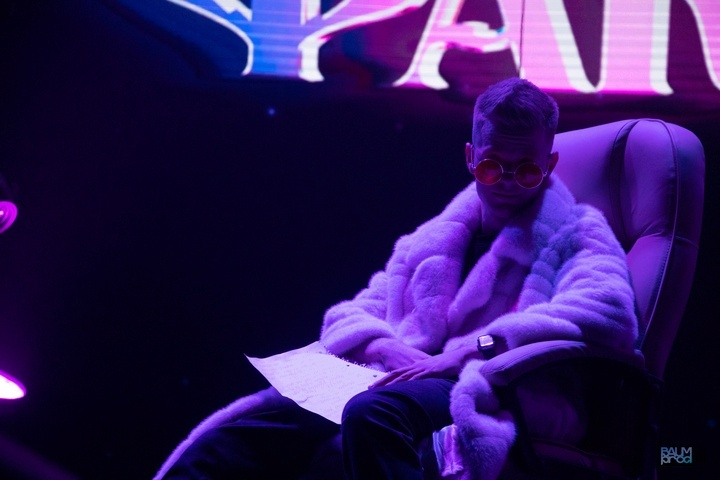
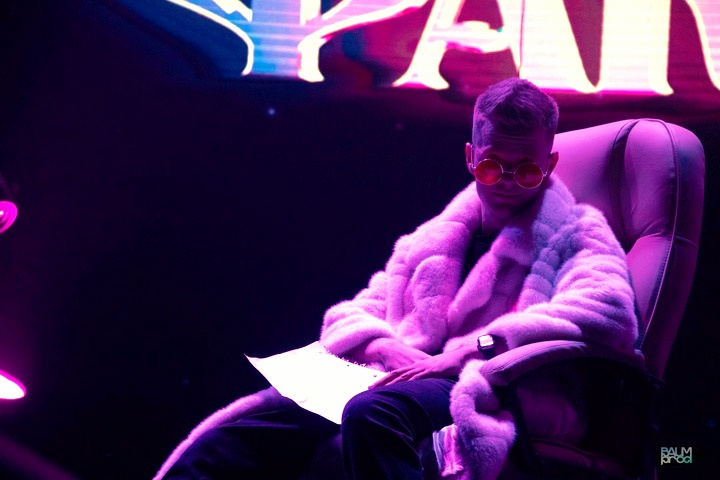
Добавлена возможность применять настройки активного изображения ко всем изображениям

diff --git a/src/main/java/org/example/photoredactor/MainController.java b/src/main/java/org/example/photoredactor/MainController.java
@@ -128,18 +128,34 @@ public class MainController {
             coef = Double.parseDouble(textField.getText());
         }
 
-        changeImage(setting, coef);
+        changeImage(curImageFileName, curImageEditCopy, setting, coef);
     }
 
-    @FXML private void changeImage(Setting setting, double coef) {
-        Mat curImage = imread(curImageFileName);
+    @FXML void changeAllImages() {
+        changeAllImages(exposeSetting, exposeSetting.getCoef());
+    }
+
+    private void changeImage(String image, String imageEditCopy, Setting setting, double coef) {
+        Mat curImage = imread(image);
         Helper.changeImage(curImage, setting, coef);
 
-        imwrite(curImageEditCopy, curImage);
+        imwrite(imageEditCopy, curImage);
 
-        File file = new File(curImageEditCopy);
+        File file = new File(imageEditCopy);
         Image img = new Image(file.toURI().toString());
-        imageView.setImage(img);
+
+        int ind = originalImages.indexOf(image);
+        imageViews.get(ind).setImage(img);
+    }
+
+    private void changeAllImages(Setting setting, double coef) {
+        for (int ind = 0; ind < originalImages.size(); ++ind) {
+            changeImage(
+                    originalImages.get(ind),
+                    editingCopyImages.get(ind),
+                    setting, // монжо подставить любую другую настройку
+                    coef);
+        }
     }
 
     // Пока не дружит с пробелами и русскими символами
@@ -185,7 +201,7 @@ public class MainController {
         saveFilesToDirectory(List.of(curImageEditCopy));
     }
 
-    @FXML void saveFiles() {
+    @FXML void saveAllFiles() {
         saveFilesToDirectory(editingCopyImages);
     }
 
@@ -202,7 +218,8 @@ public class MainController {
 
     @FXML private void resetSettings() {
         Setting.resetSettings();
-        changeImage(exposeSetting, 1);
+
+        changeImage(curImageFileName, curImageEditCopy, exposeSetting, 1); // монжо подставить любую другую настройку вместо expose
 
         Scene scene = imageView.getScene();
         for (String id : settingsMap.keySet()) {

diff --git a/src/main/java/org/example/photoredactor/settings/Setting.java b/src/main/java/org/example/photoredactor/settings/Setting.java
@@ -26,6 +26,10 @@ public abstract class Setting {
         return result;
     }
 
+    public double getCoef() {
+        return coef;
+    }
+
     protected void setCoef(double coef) {
         this.coef = convertToCoefficient(coef);
     }
